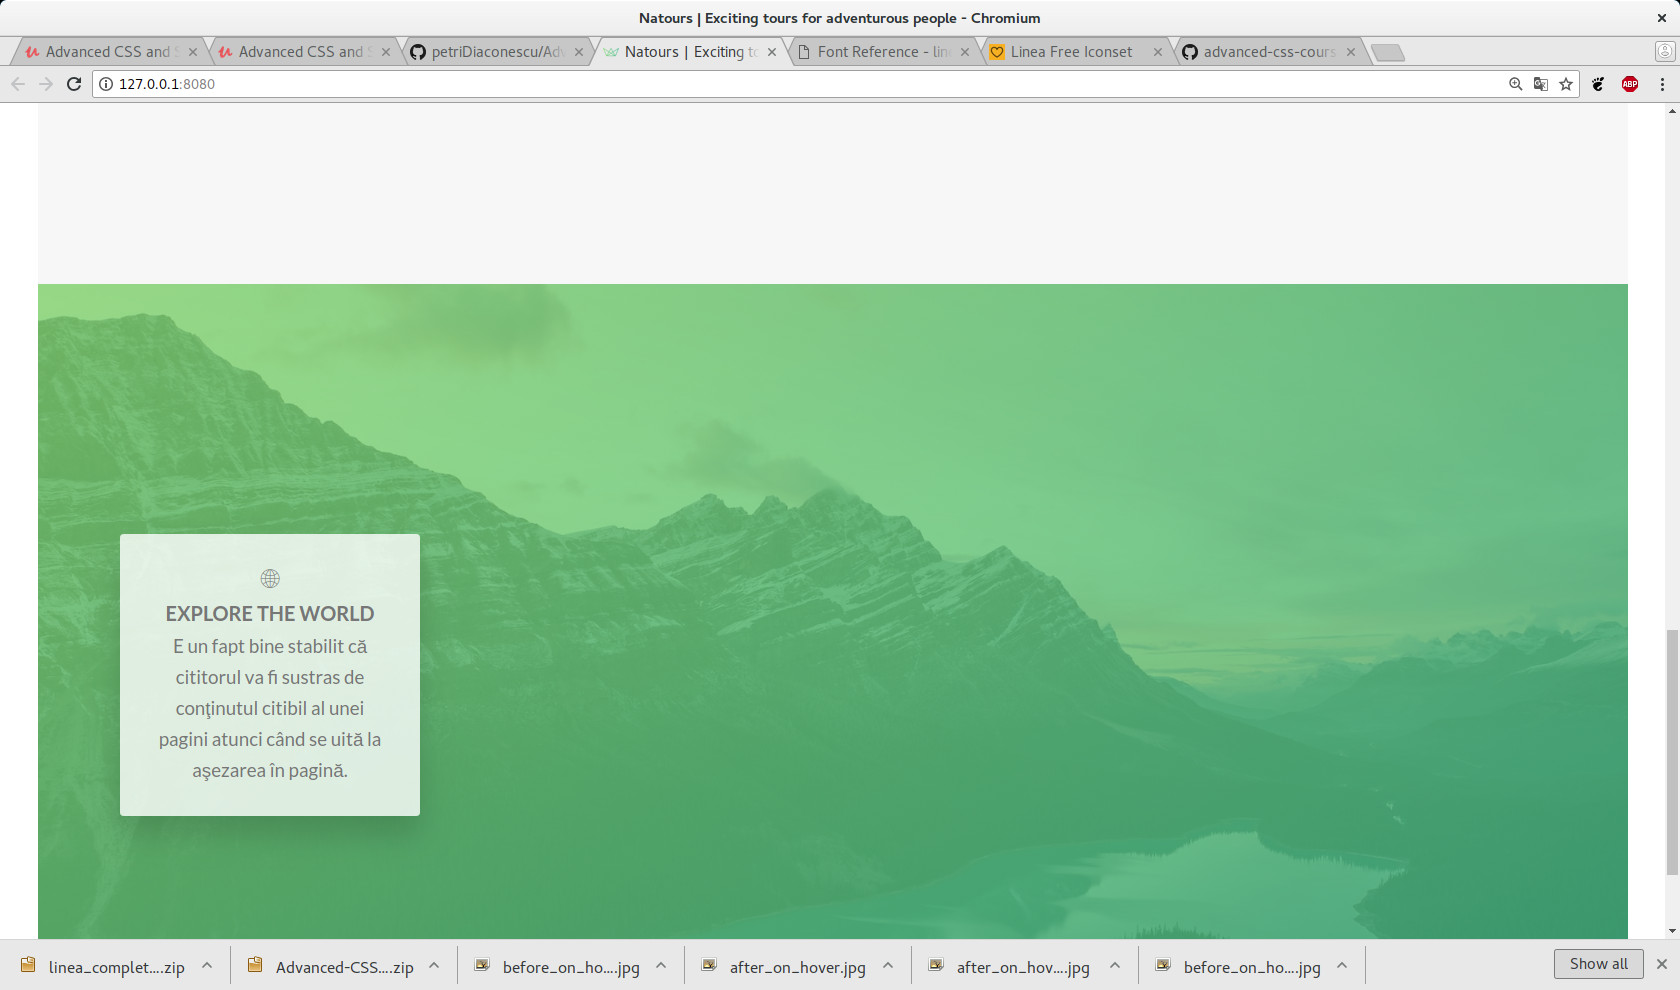
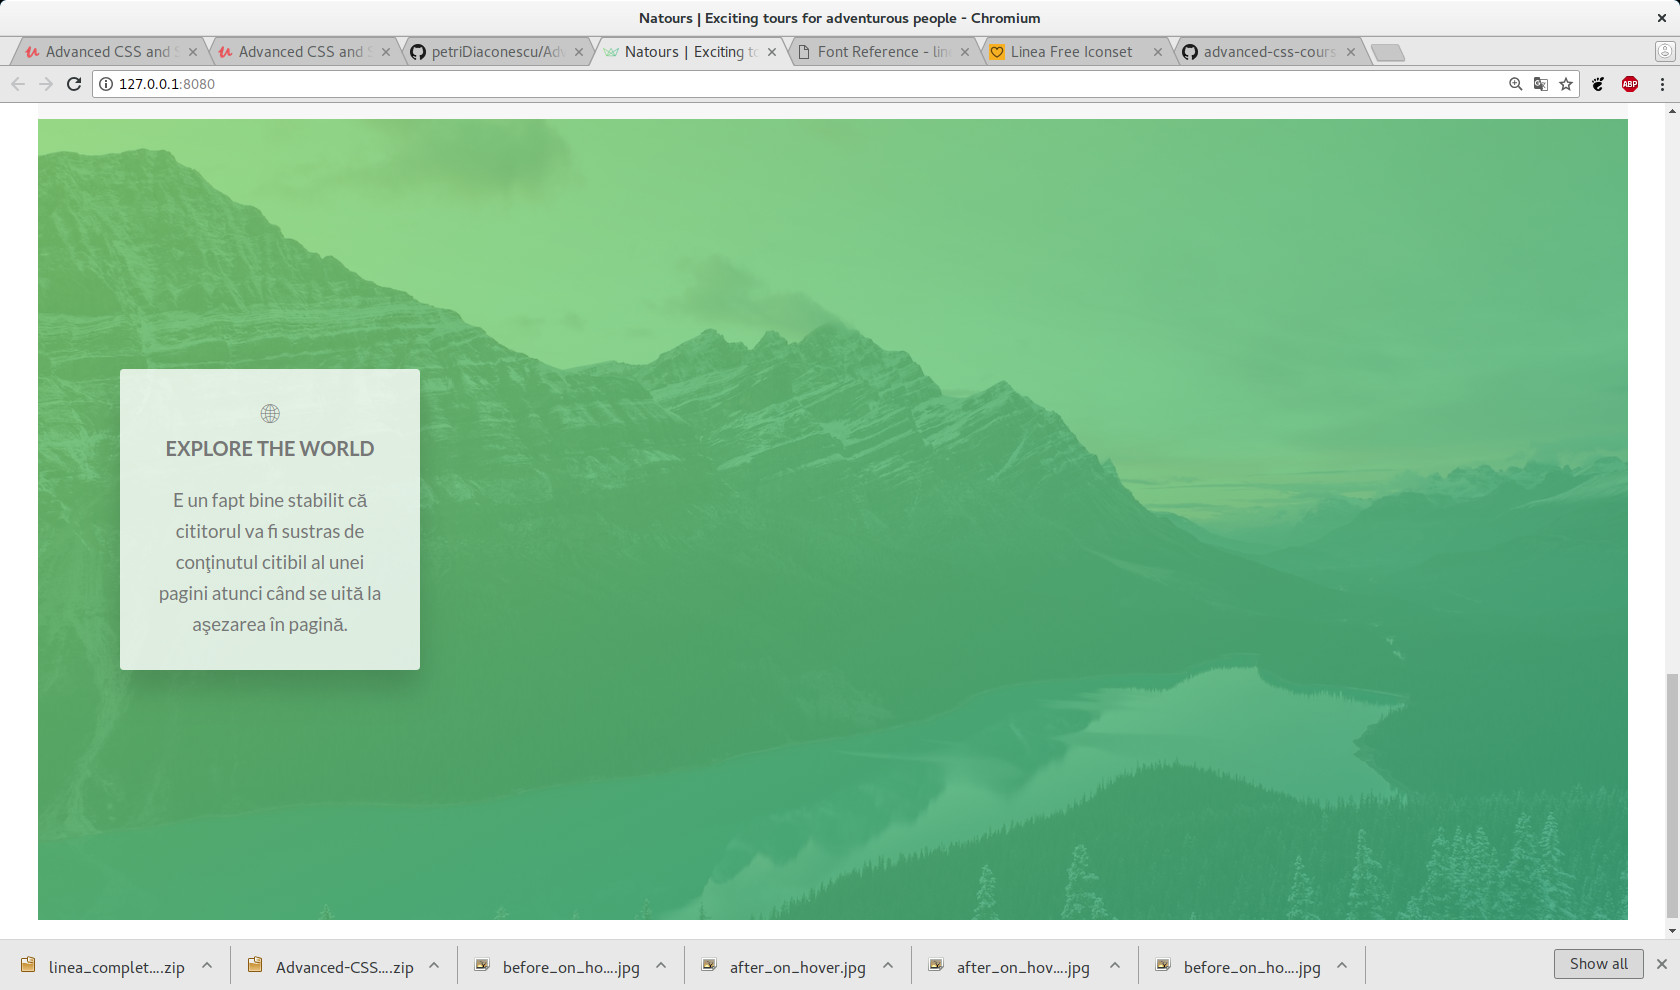
Add a space after h3 tag

diff --git a/index.html b/index.html
@@ -67,7 +67,7 @@
             <div class="col-1-of-4">
               <div class="feature-box">
                 <i class="feature-box__icon icon-basic-world"></i>
-                <h3 class="heading-tertiary">Explore the world</h3>
+                <h3 class="heading-tertiary u-margin-bottom-small">Explore the world</h3>
                 <p class="feature-box__text">
                   E un fapt bine stabilit că cititorul va fi sustras de conţinutul citibil al unei pagini atunci 
                   când se uită la aşezarea în pagină.
